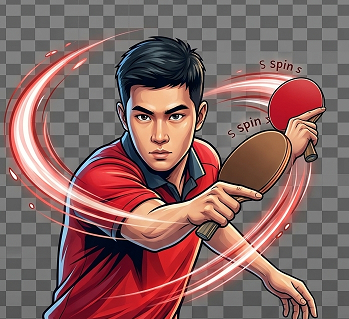
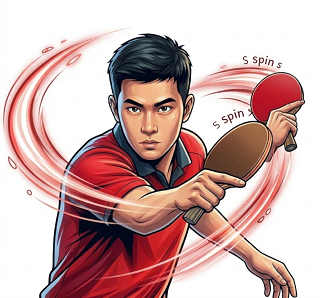
Update

diff --git a/src/components/LoginPage.jsx b/src/components/LoginPage.jsx
@@ -463,7 +463,9 @@ export const LoginPage = ({ onCancel }) => {
         .sm-login .sm-wave-bottom{bottom:-125px;height:260px;border-top:50px solid #0c69c8;box-shadow:0 -12px 0 #83cbff,0 -23px 0 #fff,0 -36px 0 #ff8737,0 -50px 0 #1763c1;}
         .sm-login .sm-space:after{content:'';position:absolute;bottom:-7%;left:-20%;width:140%;height:22%;background:linear-gradient(140deg,#032c77,#0963c5 55%,#03306f);border-radius:50% 50% 0 0;transform:rotate(7deg)}
         .sm-login .sm-net{top:19%;right:-5%;width:38%;height:15%;opacity:.65;transform:perspective(200px) rotateY(-24deg) skewY(-8deg);background:repeating-linear-gradient(90deg,#0a4c9a 0 2px,transparent 2px 12px),repeating-linear-gradient(0deg,#0a4c9a 0 2px,transparent 2px 12px)}
-        .sm-login .sm-login-art{position:absolute;z-index:1;top:18%;right:4%;width:clamp(140px,17vw,220px);height:auto;opacity:.96;filter:drop-shadow(0 8px 16px rgba(8,76,145,.2));}
+        .sm-login .sm-login-title-row{display:flex;align-items:center;justify-content:center;gap:clamp(2px,1vw,10px);width:100%;margin-top:2px}
+        .sm-login .sm-login-title-player{display:block;flex:0 0 auto;width:clamp(42px,13vw,86px);height:auto;object-fit:contain;background:transparent}
+        .sm-login .sm-login-title-player-left{transform:scaleX(-1)}
         .sm-login .sm-panel{background:linear-gradient(145deg,#fff 0%,#f8fcff 100%) !important;border:1px solid #d9edff !important;box-shadow:0 14px 32px #0a5aa433 !important;}
         .sm-login .sm-panel label,.sm-login .sm-panel h2{color:#082b63 !important;font-weight:750}
         .sm-login .sm-panel input{background:#e8f2fd !important;border:1px solid #c7def6 !important;color:#0b3068 !important}
@@ -492,7 +494,7 @@ export const LoginPage = ({ onCancel }) => {
         @media(max-height:760px){.sm-login-home .sm-login-brand>div:first-child{width:60px;height:60px}.sm-login-home .sm-login-brand{margin-bottom:5px}.sm-login-home .sm-panel{padding:12px 16px !important}.sm-login-home .sm-panel .relative.mt-4{margin-top:9px}.sm-login-home .sm-panel .relative.mt-4.pt-3{padding-top:8px}.sm-login-home .sm-panel .relative.mt-3{margin-top:7px}.sm-login-home .sm-panel .relative.mt-2\.5{margin-top:6px}.sm-login-home .sm-login-footer{margin-top:3px}.sm-login-home .sm-login-brand h1{font-size:22px}}
         @media(max-height:620px){.sm-login-home .sm-login-brand>div:first-child{width:48px;height:48px}.sm-login-home .sm-login-brand p{display:none}.sm-login-home .sm-panel{padding:8px 14px !important}.sm-login-home .sm-panel form>div{margin-bottom:5px}.sm-login-home .sm-panel input{padding-top:7px;padding-bottom:7px}.sm-login-home .sm-login-footer p:last-child{display:none}}
         @media(min-width:641px){.sm-login-home .sm-login-content{width:min(100%,510px)}}
-        @media(max-width:640px){.sm-login .sm-login-art{top:2%;right:2%;width:92px;opacity:1}}
+        @media(max-width:480px){.sm-login .sm-login-title-row{gap:0}.sm-login-home .sm-login-title-row h1{font-size:clamp(17px,5.8vw,23px)}.sm-login .sm-login-title-player{width:clamp(36px,12vw,52px)}}
 
         /* FIX KONTRAS: tombol dan label di panel putih harus selalu terbaca */
         .sm-login .sm-panel button.bg-blue-500\/10,
@@ -518,7 +520,7 @@ export const LoginPage = ({ onCancel }) => {
 
       `}</style>
 
-      <div className="sm-space" aria-hidden="true"><div className="sm-wave sm-wave-top"/><div className="sm-wave sm-wave-bottom"/><div className="sm-net"/><img className="sm-login-art" src={loginPlayerArtwork} alt="" /></div>
+      <div className="sm-space" aria-hidden="true"><div className="sm-wave sm-wave-top"/><div className="sm-wave sm-wave-bottom"/><div className="sm-net"/></div>
 
       <div className="sm-login-content relative w-full max-w-[430px]">
 
@@ -560,19 +562,14 @@ export const LoginPage = ({ onCancel }) => {
 
 
 
-            <h1 className="text-[25px] sm:text-[28px] font-black tracking-tight leading-tight">
-
-
-
-              <span className="text-[#154b85]">{recoveryMode ? 'Reset Password ' : mode === 'REGISTER' ? 'Daftar di ' : 'Masuk ke '}</span>
-
-
-
-              <span className="text-[#087b51]">SpinMatch</span>
-
-
-
-            </h1>
+            <div className="sm-login-title-row">
+              <img className="sm-login-title-player sm-login-title-player-left" src={loginPlayerArtwork} alt="" aria-hidden="true" />
+              <h1 className="text-[25px] sm:text-[28px] font-black tracking-tight leading-tight">
+                <span className="text-[#154b85]">{recoveryMode ? 'Reset Password ' : mode === 'REGISTER' ? 'Daftar di ' : 'Masuk ke '}</span>
+                <span className="text-[#087b51]">SpinMatch</span>
+              </h1>
+              <img className="sm-login-title-player" src={loginPlayerArtwork} alt="" aria-hidden="true" />
+            </div>
 
 
 
